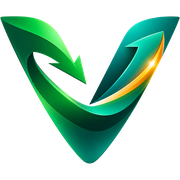
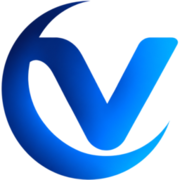
Changes

diff --git a/src/components/vroomever/brand.tsx b/src/components/vroomever/brand.tsx
@@ -2,9 +2,10 @@ import { Link } from "@tanstack/react-router";
 import mark from "@/assets/vrumever-logo.png";
 import { cn } from "@/lib/utils";
 
+/** Single VRUMEX lockup: the crescent-moon V mark forms the first letter of the name. */
 export function Brand({ compact = false, inverted = false }: { compact?: boolean; inverted?: boolean }) {
-  return <Link to="/" className={cn("flex items-center gap-2.5", inverted && "text-primary-foreground")}>
-    <img src={mark} alt="VRUMEX" width={512} height={512} className="size-9 object-contain" />
-    {!compact && <span><strong className="block font-display text-lg leading-none tracking-wide">VRUMEX</strong><small className="mt-1 block text-[9px] font-semibold uppercase tracking-[0.22em] text-muted-foreground">Discover • Connect • Trade</small></span>}
+  return <Link to="/" aria-label="VRUMEX home" className={cn("flex items-center", inverted && "text-primary-foreground")}>
+    <img src={mark} alt="" width={256} height={256} className="size-9 shrink-0 object-contain" />
+    {!compact && <span className="-ml-1"><strong className="block font-display text-lg leading-none tracking-wide">RUMEX</strong><small className="mt-1 block text-[9px] font-semibold uppercase tracking-[0.22em] text-muted-foreground">Discover • Connect • Trade</small></span>}
   </Link>;
 }

diff --git a/src/routes/__root.tsx b/src/routes/__root.tsx
@@ -98,7 +98,6 @@ export const Route = createRootRouteWithContext<{ queryClient: QueryClient }>()(
       { rel: "preconnect", href: "https://fonts.gstatic.com", crossOrigin: "anonymous" },
       { rel: "stylesheet", href: "https://fonts.googleapis.com/css2?family=Manrope:wght@400;500;600;700;800&family=Space+Grotesk:wght@600;700&display=swap" },
       { rel: "icon", href: "/favicon.png", type: "image/png" },
-      { rel: "icon", href: "/favicon.ico", sizes: "any" },
       { rel: "apple-touch-icon", href: "/apple-touch-icon.png" },
     ],
   }),
